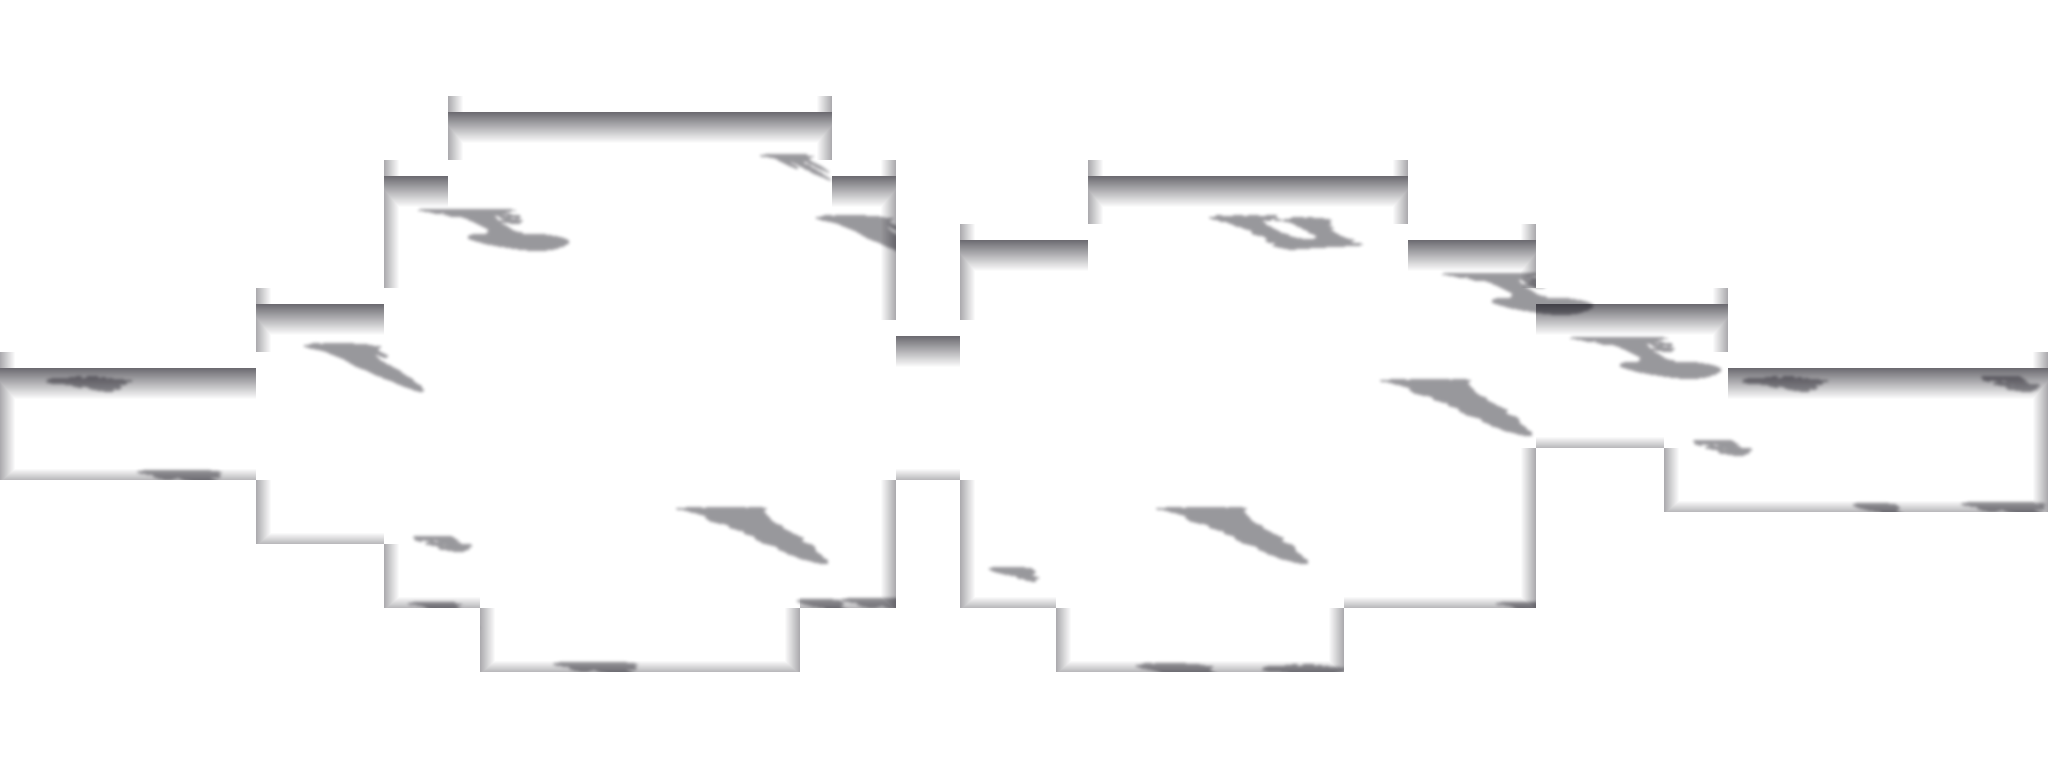
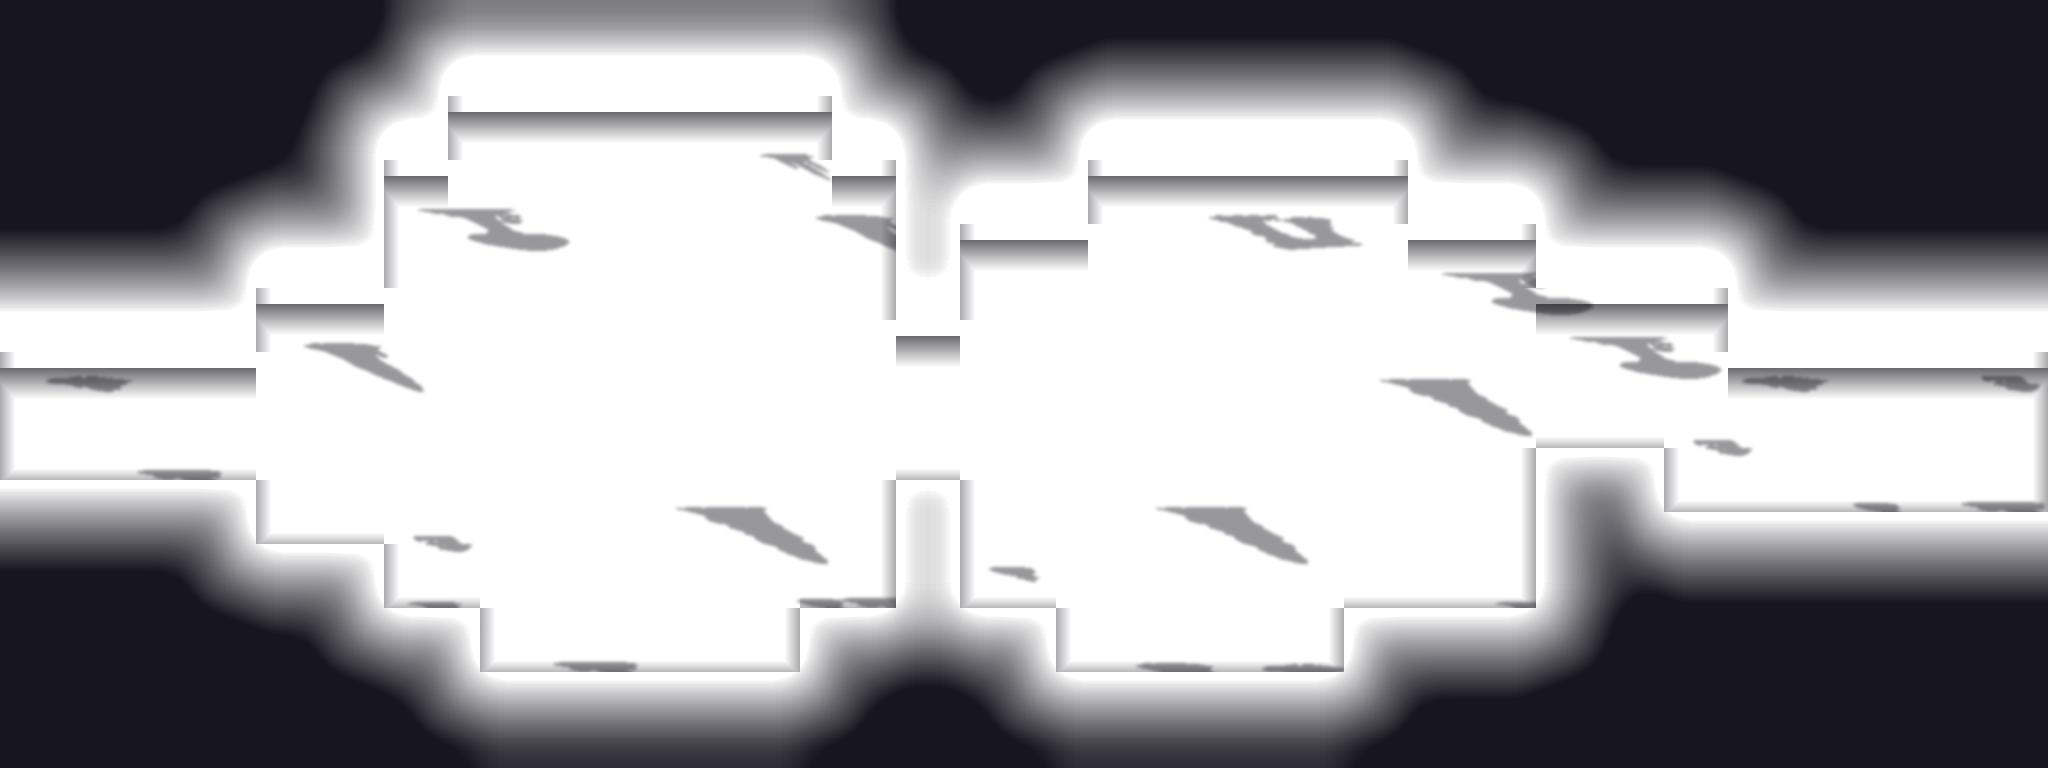
Pixel road: the lower walls read as rock, not as a flat pattern
Sam, 2026-11-22: "the 3d walls of the cavern look good there but the inferior walls look 2d."
Rock south of the floor is seen from above, so the tiles give it no face. bake.py now makes,
from the picture itself: a raised, lit lip in front of the figures (front.png), and the rock
mass sinking into black away from the floor (shade.png).

Claude-Session: https://claude.ai/code/session_01QSk71K38AvMywZjp8GWjJx

diff --git a/public/pixel-road/index.html b/public/pixel-road/index.html
@@ -54,7 +54,7 @@ const FOOT_RX = 7, FOOT_RY = 3; // a figure's footprint on the ground, for bumpi
 const cv = document.getElementById("c"), ctx = cv.getContext("2d");
 const img = (src) => new Promise((ok) => { const i = new Image(); i.onload = () => ok(i); i.onerror = () => ok(null); i.src = src; });
 
-let road = null, ground = null, shade = null, fgImg = {}, WALK = "w", objImg = {}, heroes = [], trail = [], path = [], keys = {}, cam = { x: 0, y: 0, z: 3 }, last = 0, lightCv = null;
+let road = null, ground = null, shade = null, front = null, fgImg = {}, WALK = "w", objImg = {}, heroes = [], trail = [], path = [], keys = {}, cam = { x: 0, y: 0, z: 3 }, last = 0, lightCv = null;
 
 /* ---------- where the party can walk: the map's own cells, minus each prop's footprint ---------- */
 function cellAt(px, py) {
@@ -263,6 +263,8 @@ function frame(now) {
   const things = heroes.map((h) => ({ y: h.y, h })).concat(road.objects.map((o) => ({ y: o.ground[1] + o.ground[3], o })));
   things.sort((a, b) => a.y - b.y);
   for (const t of things) { if (t.h) drawHero(t.h); else if (objImg[t.o.kind]) { ctx.imageSmoothingEnabled = false; ctx.drawImage(objImg[t.o.kind], t.o.x, t.o.y); } }
+  // The lip of the rock that stands between the party and us (bake.py): over the figures, so feet go behind it.
+  if (front) { ctx.imageSmoothingEnabled = false; ctx.drawImage(front, 0, 0); }
   if (LIGHT) drawLight();
   drawGlow(now);
   drawForeground();
@@ -279,6 +281,7 @@ function frame(now) {
   ground = await img(BASE + road.ground);
   WALK = road.walkable || "w";
   if (road.shade) shade = await img(BASE + road.shade);
+  if (road.front) front = await img(BASE + road.front);
   for (const [k, f] of Object.entries(road.foreground || {})) fgImg[k] = await img(BASE + f);
   for (const k of new Set(road.objects.map((o) => o.kind))) objImg[k] = await img(BASE + "objects/" + k + ".png");
   heroes = (await Promise.all(LINE.map(loadHero))).filter(Boolean);

diff --git a/scripts/pixel-road/bake.py b/scripts/pixel-road/bake.py
@@ -16,8 +16,10 @@ config.json:
 
 What it writes:
   ground.png   the stitched picture, props painted in
-  shade.png    depth, as one see-through layer: the dark at the foot of every rock face, and the shadow each
-               prop throws across the floor. Drawn over the ground and under the figures.
+  shade.png    depth, as one see-through layer: the dark at the foot of every rock face, the shadow each prop
+               throws across the floor, and rock sinking into black away from the floor. Over the ground, under
+               the figures.
+  front.png    the lip of the rock that stands south of the floor, drawn in front of the figures
   objects/     one PNG per kind of prop
   fg/          foreground pieces the page hangs in front of everything
   road.json    the grid, the props, the way in and out
@@ -106,6 +108,48 @@ def main():
     shade = np.zeros((H, W, 4), np.uint8); shade[..., 0] = 6; shade[..., 1] = 4; shade[..., 2] = 14; shade[..., 3] = alpha
     Image.fromarray(shade, "RGBA").save(os.path.join(out, "shade.png"), optimize=True)
 
+    # ---- rock that reads as rock, not as a flat pattern (Sam, 2026-11-22: "the inferior walls look 2d") -------
+    # The tiles give a rock face only where rock stands NORTH of floor. Rock south of the floor is seen from above,
+    # so it comes out as a flat carpet of pattern. Two things fix that, both made here from the picture itself:
+    #   1. The rock sinks into darkness away from the floor (in shade.png): one cell in, it is still stone; three or
+    #      four cells in, it is the black of solid ground. A carpet has no depth; a mass that swallows light does.
+    #   2. A lip (front.png, drawn IN FRONT of the figures): the rock south of the floor is raised LIP pixels up over
+    #      the floor's edge, with a lit rim along its top. A figure walking that edge has its feet behind the lip,
+    #      which is what tells the eye the rock stands between it and us.
+    rockc = np.array([[at(cx, cy) == "d" for cx in range(cols)] for cy in range(rows)])
+    dist = np.where(rockc, 99, 0).astype(np.float32)
+    for _ in range(8):                                   # cells from the nearest ground that is not rock
+        pad = np.pad(dist, 1, constant_values=99)
+        near = np.minimum.reduce([pad[1 + dy:1 + dy + rows, 1 + dx:1 + dx + cols] + (1.0 if dx == 0 or dy == 0 else 1.4)
+                                  for dy in (-1, 0, 1) for dx in (-1, 0, 1) if dx or dy])
+        dist = np.where(rockc, np.minimum(dist, near), 0)
+    dpx = np.asarray(Image.fromarray(np.clip(dist * 40, 0, 255).astype(np.uint8)).resize((W, H), Image.BILINEAR).filter(ImageFilter.GaussianBlur(10)), np.float32) / 40
+    deep = np.clip((dpx - 0.75) / 2.6, 0, 1) ** 0.8 * 238
+    alpha = np.maximum(alpha, deep.astype(np.uint8))
+    shade[..., 3] = alpha
+    Image.fromarray(shade, "RGBA").save(os.path.join(out, "shade.png"), optimize=True)
+
+    LIP = 18
+    g = np.asarray(ground).astype(np.float32)
+    # Where the rock really is, to the pixel. The tiles are painted half a cell lower than the grid, so the grid
+    # alone puts the edge in the wrong place; inside the rock's own cells, stone is whatever is blue and not brown.
+    rockpx = np.kron(rockc, np.ones((T, T), bool)) & (g[..., 2] - g[..., 0] > 10)
+    up = np.zeros_like(rockpx); up[:-LIP] = rockpx[LIP:]              # the rock, moved up by LIP
+    lip = up & ~rockpx                                               # the strip of floor it now covers
+    lip &= ~np.kron(np.array([[at(cx, cy) == "a" for cx in range(cols)] for cy in range(rows)]), np.ones((T, T), bool))
+    for o in objs:                                                   # a prop standing at the edge stays whole:
+        al = np.asarray(seen[o["kind"]])[:, :, 3] > 0                 # no lip where the prop itself is drawn
+        y1, y2, x1, x2 = max(0, o["y"]), min(H, o["y"] + o["h"]), max(0, o["x"]), min(W, o["x"] + o["w"])
+        lip[y1:y2, x1:x2] &= ~al[y1 - o["y"]:y2 - o["y"], x1 - o["x"]:x2 - o["x"]]
+    front = np.zeros((H, W, 4), np.float32)
+    src = np.zeros_like(g); src[:-LIP] = g[LIP:]                      # the rock's own stone, from just below
+    front[..., :3] = src * 0.78; front[..., 3] = lip * 255
+    top = lip & ~np.roll(lip, 1, axis=0)                              # the lip's top edge: catches the light
+    for i, gain in enumerate((1.7, 1.4, 1.12)):
+        m = np.roll(top, i, axis=0) & lip
+        front[m, :3] = np.clip(src[m] * gain + (24 - 8 * i), 0, 255)
+    Image.fromarray(front.astype(np.uint8), "RGBA").save(os.path.join(out, "front.png"), optimize=True)
+
     fg = {}
     for k, f in (cfg.get("foreground") or {}).items():
         ext = os.path.splitext(f)[1] or ".png"
@@ -113,7 +157,7 @@ def main():
 
     road = {"_": "Baked by scripts/pixel-road/bake.py from the PixelLab map below; do not edit by hand. ground.png has the props painted in; objects/ holds the same props again so a figure can stand behind one.",
             "id": rid, "name": cfg["name"], "pixellabMapId": cfg["pixellabMapId"], "tile": T, "cols": cols, "rows": rows,
-            "ground": "ground.png", "shade": "shade.png", "foreground": fg,
+            "ground": "ground.png", "shade": "shade.png", "front": "front.png", "foreground": fg,
             "legend": {"w": "floor", "r": "damp floor", "d": "rock", "a": "rock face", "s": "stream"}, "walkable": "wr",
             "grid": grid, "objects": objs, "entry": cfg["entry"], "exit": cfg["exit"],
             "landmarks": cfg.get("landmarks", []), "glow": cfg.get("glow", {}), "shine": cfg.get("shine", {})}

diff --git a/scripts/pixel-road/README.md b/scripts/pixel-road/README.md
@@ -10,6 +10,7 @@ Design of record: `claude/Pixel_Road_Hybrid_2026-11-22.md` (project doc). This f
 | `road.json` | The map's own cell grid (`w` floor, `r` damp floor, `d` rock, `a` rock face, `s` stream), every prop's place and footprint, the way in, the way out, the landmarks. **This is where walking comes from; nothing is masked by hand.** |
 | `ground.png` | The whole stretch at 32px a cell, props painted in. |
 | `shade.png` | Depth as one see-through layer: the dark at the foot of every rock face, and the shadow each prop throws. |
+| `front.png` | The lip of the rock that stands south of the floor, drawn in front of the figures so their feet go behind it. |
 | `objects/<kind>.png` | The same props again, one file per kind, so a figure can stand behind one. |
 | `fg/ceiling.webp`, `fg/shelf.webp` | The near rock the page hangs in front of everything: Sam's paintings of a stalactite ceiling lip and a stalagmite shelf (2026-11-22), kept in `scripts/pixel-road/art/`. They slide faster than the floor. |
 
@@ -21,7 +22,8 @@ Everything in that folder is written by `bake.py`. Do not edit it by hand; chang
 2. **Things that stand over the figures**: spires, fangs and zurkhwood four to six cells tall. Figures walk behind them.
 3. **Shadow**: `shade.png`.
 4. **A close camera**: about eight and a half cells of height on screen.
-5. **Near rock**: a painted ceiling of stalactites across the top and a shelf of stalagmites along the bottom that slide faster than the floor.
+5. **Rock south of the floor** (Sam: "the inferior walls look 2d"): seen from above it has no face to show, so it gets a raised, lit lip in front of the figures (`front.png`) and sinks into black away from the floor (`shade.png`).
+6. **Near rock**: a painted ceiling of stalactites across the top and a shelf of stalagmites along the bottom that slide faster than the floor.
 
 ## Light
 
